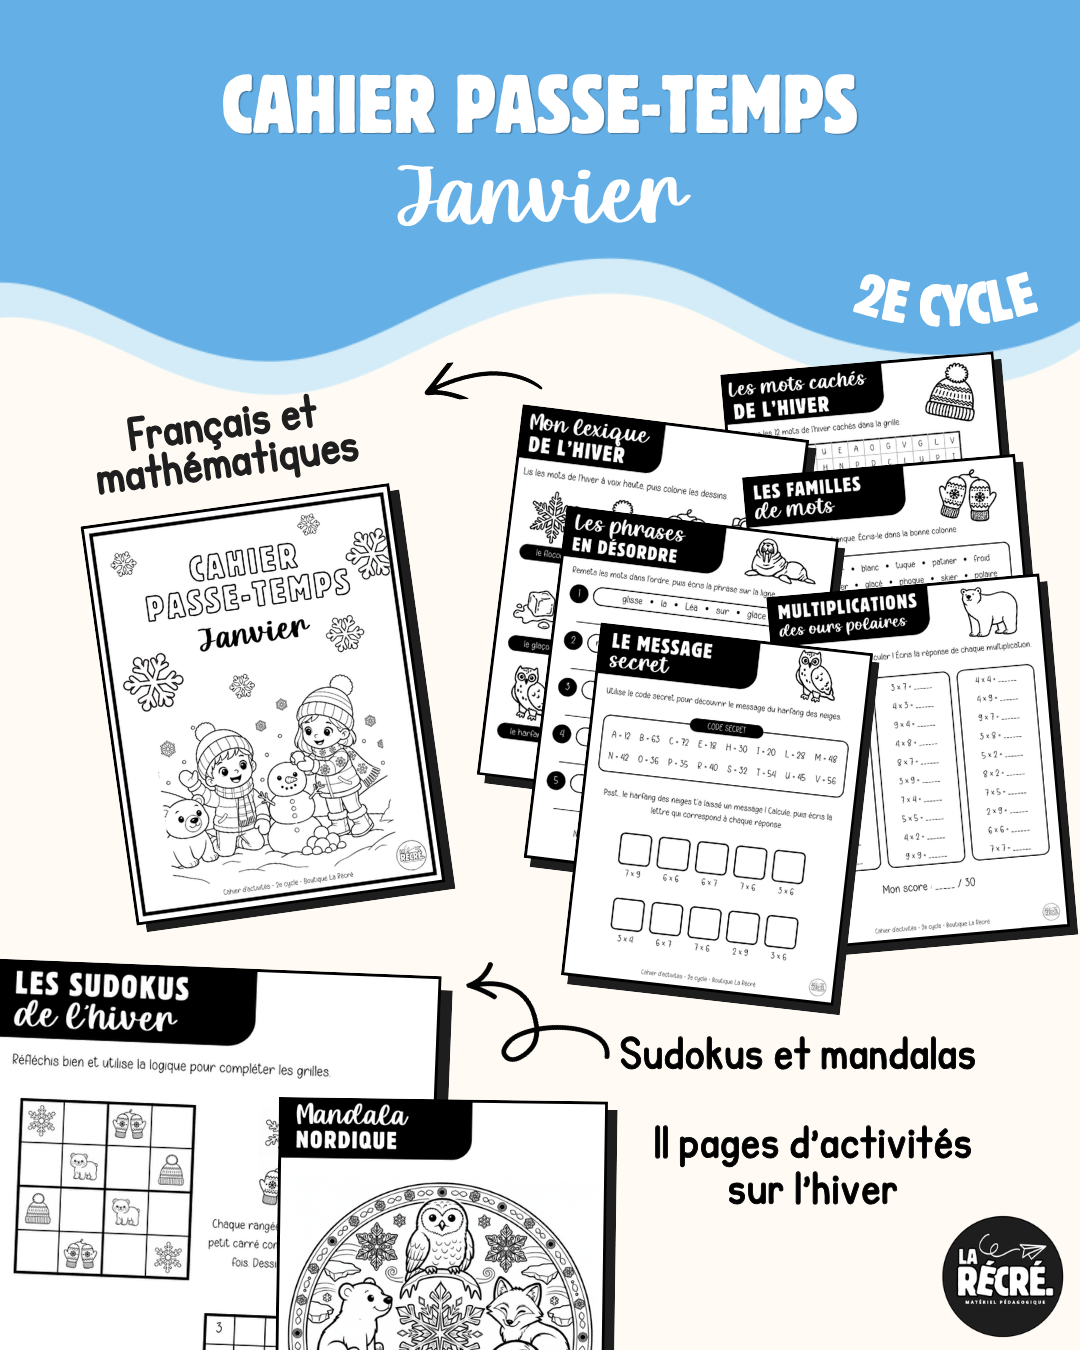
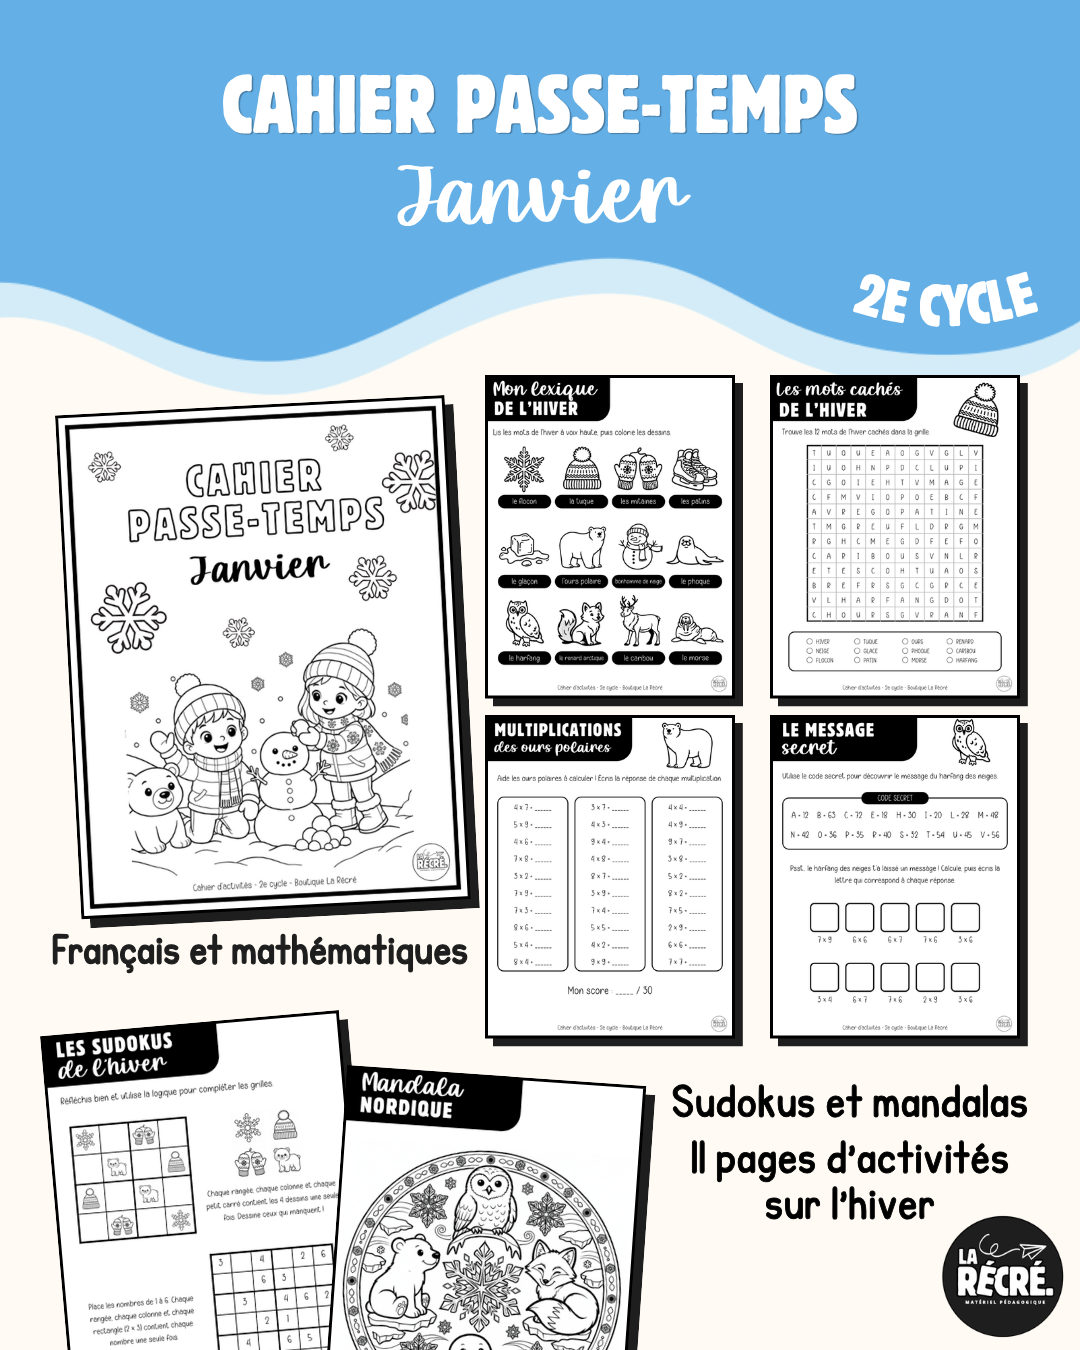
Cahier passe-temps de janvier : nouvelle disposition de l'aperçu
Claude-Session: https://claude.ai/code/session_01NiTaWGpjQjB6yeVp3yNw7H

Changed region(s): [[0.0, 0.2489, 1.0, 1.0]]

diff --git a/ressources/cahier-passe-temps-janvier-2e-cycle/canva.md b/ressources/cahier-passe-temps-janvier-2e-cycle/canva.md
@@ -31,5 +31,5 @@ Dessins au trait générés dans Canva (couverture, 12 icônes, ours à la panca
 - `cahier-passe-temps-janvier-2e-cycle.pdf` (11 pages, Lettre).
 
 ## Aperçu boutique
-- Copie de l'aperçu « Mission glaçon » (l'original n'a pas été modifié), dans le dossier du projet.
+- Parti d'une copie de l'aperçu « Mission glaçon » (l'original n'a pas été modifié), puis nouvelle disposition : grande couverture à gauche, grille de 4 pages à droite, sudokus et mandala inclinés en bas.
 - Image : `apercus/apercu-boutique.png` (1080 × 1350).
